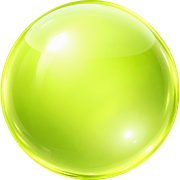
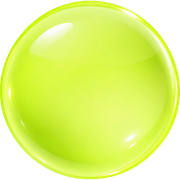
Restore the footer's rounded top, updated orb, auth nav actions
Three things.

The footer's 40px corners are back. Squaring them off was the wrong fix for the
white — the white was never the radius. The footer is a sibling AFTER <main>, so
at margin-top:0 its corners revealed the body's white rather than the artwork
that ends exactly at its top edge, leaving two white wedges. Lifting it by
exactly the corner radius puts the curve over the last 40px of the section
above, so what shows through is that section, as the design draws it.

New orb artwork, regenerated the same way: trimmed to the sphere's solid alpha
edge, squared so it cannot skew, emitted at 256/512 WebP plus the 180px PNG the
favicon and apple-touch icon use.

Every auth screen now carries a right-hand action, pointing at the flow the
reader is not in — signup offers the way to log in, login offers the way to sign
up, with the CTA wording matching the marketing header per audience:

  /signup/creator   Already have an account? → Log in
  /signup/brand     Already have an account? → Log in
  /login/creator    New to Guapd?            → Join as creator
  /login/brand      New to Guapd?            → Get access

Two deliberate exceptions keep nothing: /reset-password, and the "You're in"
state on /login/brand — both are mid-task, and pointing someone backwards there
invites them to abandon it.

It is one shared AuthNavRight rather than four copies, because the breakpoint
rules key on that exact markup: below the fold it is re-pinned to the foot of
[…]

diff --git a/apps/web/app/footer.css b/apps/web/app/footer.css
@@ -32,15 +32,17 @@
 
   position: relative;
   /* The export sets margin-top: clamp(72px,8vw,120px), which assumes the paper
-     background it was drawn on. On our pages the section above ends in artwork,
-     so that margin rendered as a bare white band between the artwork and the
-     footer's rounded top. The footer butts straight up against the section
-     instead, which is what the 40px top corners are for. */
-  margin-top: 0;
-  /* The export rounds the top corners 40px. Against our light artwork the curve
-     left two visible wedges of page background at the edges, which read as a
-     gap rather than as a lifted panel, so the footer is squared off. */
-  border-radius: 0;
+     background it was drawn on. Our sections end in artwork, so that margin
+     rendered as a bare white band above the footer.
+     
+     Zero was not enough on its own: the footer is a sibling AFTER <main>, so at
+     margin-top:0 its rounded corners revealed the body's white rather than the
+     artwork, leaving two white wedges that read as the same gap in miniature.
+     Lifting it by exactly the corner radius puts the curve over the last 40px
+     of the section above, so what shows through the corners is that section —
+     which is what the design draws. */
+  margin-top: -40px;
+  border-radius: 40px 40px 0 0;
   background: #12151C;
   font-family: var(--font-ui);
   color: #EDEDE7;

diff --git a/apps/web/components/AuthShell.tsx b/apps/web/components/AuthShell.tsx
@@ -1,4 +1,5 @@
 
+import Link from 'next/link'
 import Wordmark from '@/components/Wordmark'
 
 /**
@@ -31,6 +32,26 @@ export const CREATOR_LOGIN_PITCH = {
 export const CREATOR_PITCH = {
   title: <>Everything a<br />collaboration needs.</>,
   sub: 'From the first offer to the final payout, guapd keeps brands and creators on the same page.',
+}
+
+/**
+ * The prompt opposite the logo. Every auth screen carries one, pointing at the
+ * flow the reader is NOT in: signup offers the way to log in, login offers the
+ * way to sign up. Password reset is the exception and passes nothing — see the
+ * note on `navRight`.
+ *
+ * A component rather than four copies of the same two elements, because the
+ * markup is what the breakpoint rules key on: below the fold it is re-pinned to
+ * the foot of the form with a neon dot before it, and a hand-rolled copy that
+ * missed a class would silently lose that.
+ */
+export function AuthNavRight({ label, ctaLabel, href }: { label: string; ctaLabel: string; href: string }) {
+  return (
+    <div className="signup-nav__right">
+      <span className="signup-nav__label">{label}</span>
+      <Link href={href} className="signup-nav__cta">{ctaLabel}</Link>
+    </div>
+  )
 }
 
 export default function AuthShell({

diff --git a/apps/web/app/login/creator/page.tsx b/apps/web/app/login/creator/page.tsx
@@ -1,6 +1,6 @@
 import { redirect } from 'next/navigation'
 import { createClient } from '@/lib/supabase/server'
-import AuthShell, { CREATOR_LOGIN_PITCH } from '@/components/AuthShell'
+import AuthShell, { AuthNavRight, CREATOR_LOGIN_PITCH } from '@/components/AuthShell'
 import FormError from '@/components/FormError'
 import CreatorLoginForm from './CreatorLoginForm'
 import { safeNext } from '@/lib/safe-next'
@@ -46,7 +46,10 @@ export default async function CreatorLoginPage({
   // yet." screen with its own route to signup — so a permanent link would
   // offer that door to everyone, including the people who do not need it.
   return (
-    <AuthShell pitch={CREATOR_LOGIN_PITCH}>
+    <AuthShell
+      pitch={CREATOR_LOGIN_PITCH}
+      navRight={<AuthNavRight label="New to Guapd?" ctaLabel="Join as creator" href="/signup/creator" />}
+    >
       <div className="signup-panel__inner">
         {searchParams.error === 'no_account' && (
           <FormError>

diff --git a/apps/web/app/signup/brand/page.tsx b/apps/web/app/signup/brand/page.tsx
@@ -1,7 +1,7 @@
 import { redirect } from 'next/navigation'
 import Link from 'next/link'
 import { createClient } from '@/lib/supabase/server'
-import AuthShell from '@/components/AuthShell'
+import AuthShell, { AuthNavRight } from '@/components/AuthShell'
 import BrandSignupForm from './BrandSignupForm'
 
 export const metadata = {
@@ -42,12 +42,7 @@ export default async function BrandSignupPage({
 
   return (
     <AuthShell
-      navRight={
-        <div className="signup-nav__right">
-          <span className="signup-nav__label">Already have an account?</span>
-          <Link href="/login/brand" className="signup-nav__cta">Log in</Link>
-        </div>
-      }
+      navRight={<AuthNavRight label="Already have an account?" ctaLabel="Log in" href="/login/brand" />}
     >
       <div className="signup-panel__inner">
         {/* Heading lives INSIDE the form: it has to change once the

diff --git a/apps/web/app/signup/creator/page.tsx b/apps/web/app/signup/creator/page.tsx
@@ -1,6 +1,6 @@
 import { redirect } from 'next/navigation'
 import { createClient } from '@/lib/supabase/server'
-import AuthShell, { CREATOR_PITCH } from '@/components/AuthShell'
+import AuthShell, { AuthNavRight, CREATOR_PITCH } from '@/components/AuthShell'
 import CreatorSignupForm from './CreatorSignupForm'
 
 export const metadata = {
@@ -37,7 +37,10 @@ export default async function CreatorSignupPage() {
   // offering a separate door would send them to type the same number and wait
   // for a second code.
   return (
-    <AuthShell pitch={CREATOR_PITCH}>
+    <AuthShell
+      pitch={CREATOR_PITCH}
+      navRight={<AuthNavRight label="Already have an account?" ctaLabel="Log in" href="/login/creator" />}
+    >
       <div className="signup-panel__inner">
         <CreatorSignupForm />
       </div>

diff --git a/apps/web/app/login/brand/page.tsx b/apps/web/app/login/brand/page.tsx
@@ -1,6 +1,6 @@
 import { redirect } from 'next/navigation'
 import Link from 'next/link'
-import AuthShell from '@/components/AuthShell'
+import AuthShell, { AuthNavRight } from '@/components/AuthShell'
 import Toast from '@/components/Toast'
 import { createClient } from '@/lib/supabase/server'
 import SignOutButton from '@/components/SignOutButton'
@@ -88,7 +88,7 @@ export default async function LoginPage({
   }
 
   return (
-    <AuthShell>
+    <AuthShell navRight={<AuthNavRight label="New to Guapd?" ctaLabel="Get access" href="/signup/brand" />}>
       <div className="signup-panel__inner">
         {searchParams.error && (
           <FormError>
